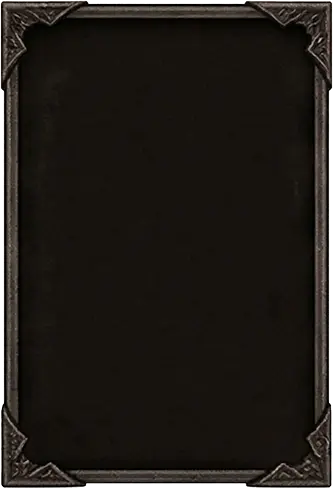
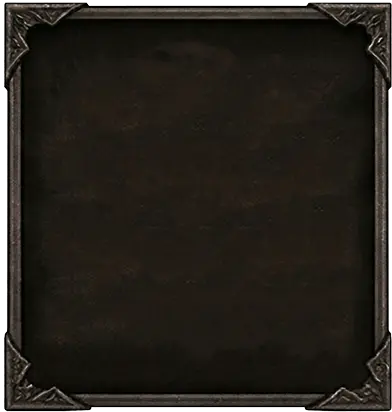
style: update stats panel dimensions and aspect ratios for improved layout

Changed region(s): [[0.0, 0.0, 1.0, 1.0]]

diff --git a/src/widgets/dashboard.css b/src/widgets/dashboard.css
@@ -50,7 +50,7 @@
   --skin-square-button-aspect-ratio: 1;
   --skin-notes-panel-aspect-ratio: 0.76;
   --skin-heatmap-panel-aspect-ratio: 2.39;
-  --skin-stats-panel-aspect-ratio: 0.68;
+  --skin-stats-panel-aspect-ratio: 0.8967;
   --skin-top-controls-panel-aspect-ratio: 6.5;
   --skin-mode-tab-button-aspect-ratio: 3.53;
   --skin-mode-duration-field-aspect-ratio: 1.97;
@@ -339,7 +339,7 @@
 
 .dashboard-shell--warm .timer-card .panel-shell__body {
   aspect-ratio: var(--skin-timer-panel-aspect-ratio);
-  min-height: 190px;
+  min-height: clamp(120px, 38vw, 190px);
 }
 
 .dashboard-shell--warm .timer-card__time {
@@ -689,7 +689,7 @@
 }
 
 .dashboard-shell--warm .stats-card {
-  width: min(100%, 334px);
+  width: min(100%, 392px);
   height: 100%;
   margin-inline: auto;
   background: transparent;
@@ -709,7 +709,7 @@
   background-image: var(--skin-stats-panel-image);
   background-repeat: no-repeat;
   background-position: center;
-  background-size: contain;
+  background-size: 100% 100%;
   pointer-events: none;
   z-index: 0;
 }
@@ -750,7 +750,7 @@
 }
 
 .dashboard-shell--warm .stats-card__grid::after {
-  width: 50%;
+  width: 70%;
   height: 1px;
   box-shadow: 0 0 8px rgba(255, 146, 64, 0.45);
 }
@@ -1213,6 +1213,18 @@
       minmax(0, 1fr) minmax(0, 0.9fr) minmax(0, 1fr)
       minmax(0, 0.9fr);
     gap: 0.4rem;
+  }
+
+  .dashboard-shell--warm .stats-card .panel-shell__body {
+    min-height: clamp(16.5rem, 80vw, 20rem);
+  }
+
+  .dashboard-shell--warm .stats-card__label {
+    font-size: 0.62rem;
+  }
+
+  .dashboard-shell--warm .stats-card__value {
+    font-size: 1.08rem;
   }
 
   .settings-modal {

diff --git a/src/shared/skins/cssVars.ts b/src/shared/skins/cssVars.ts
@@ -63,7 +63,7 @@ export function mapSkinToCssVariables(skin: SkinProfile): SkinCSSVariables {
       skin.assets.heatmapPanel?.aspectRatio ?? 2.39,
     ),
     "--skin-stats-panel-aspect-ratio": String(
-      skin.assets.statsPanel?.aspectRatio ?? 0.68,
+      skin.assets.statsPanel?.aspectRatio ?? 0.8967,
     ),
     "--skin-top-controls-panel-aspect-ratio": String(
       skin.assets.topControlsPanel?.aspectRatio ?? 6.5,

diff --git a/src/shared/skins/catalog.ts b/src/shared/skins/catalog.ts
@@ -77,7 +77,7 @@ const warmSkin: SkinProfile = {
     ),
     statsPanel: buildImageAsset(
       "/assets/red_lava_theme/stats_panel/stats_panel_w334_h489.webp",
-      { width: 334, height: 489 },
+      { width: 191, height: 213 },
     ),
     topControlsPanel: buildImageAsset(
       "/assets/red_lava_theme/top_control_panel/top_panel_w1303_h200.webp",
